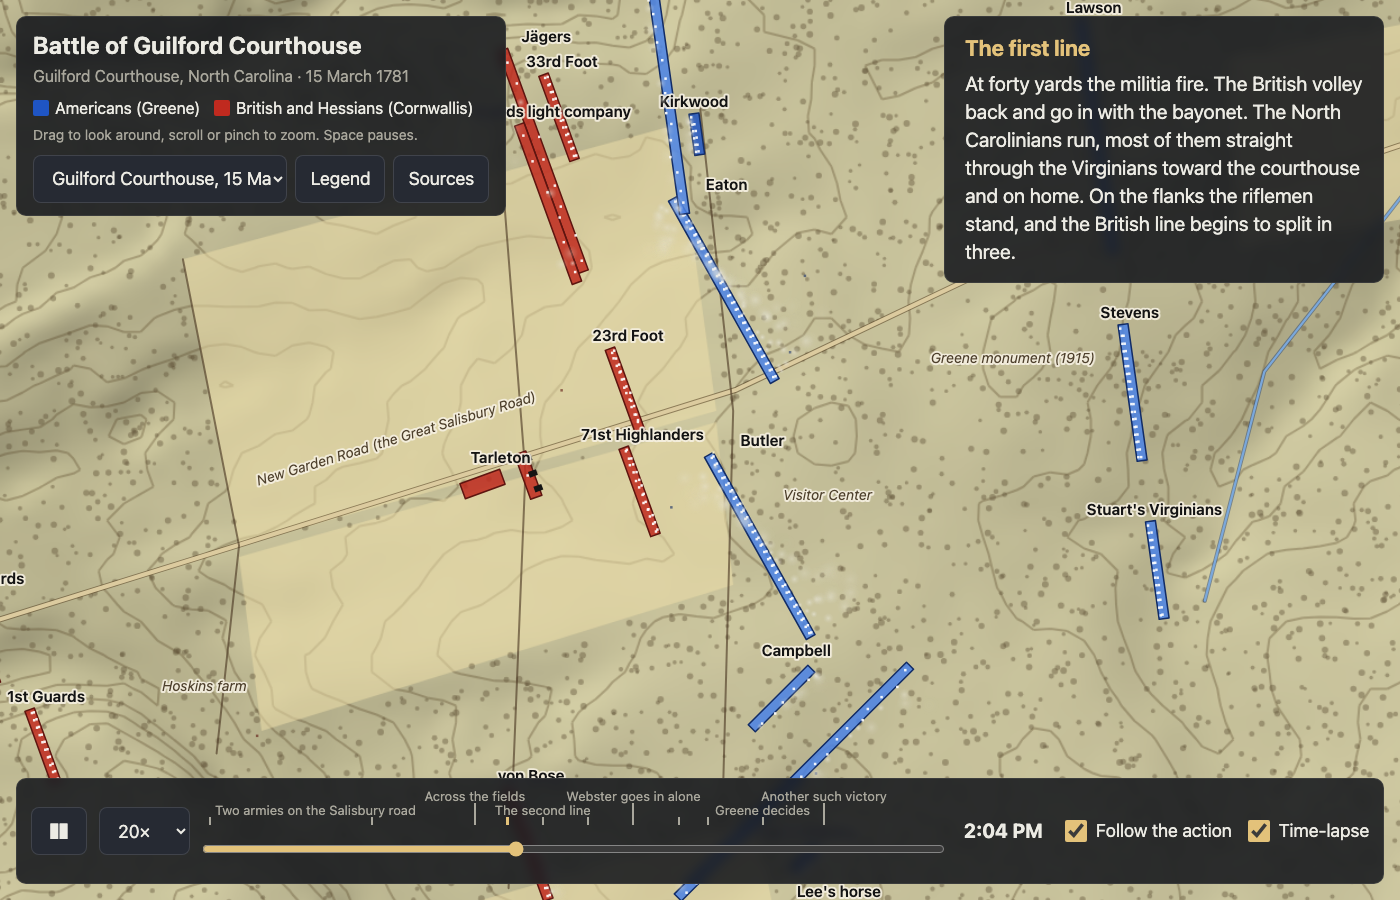
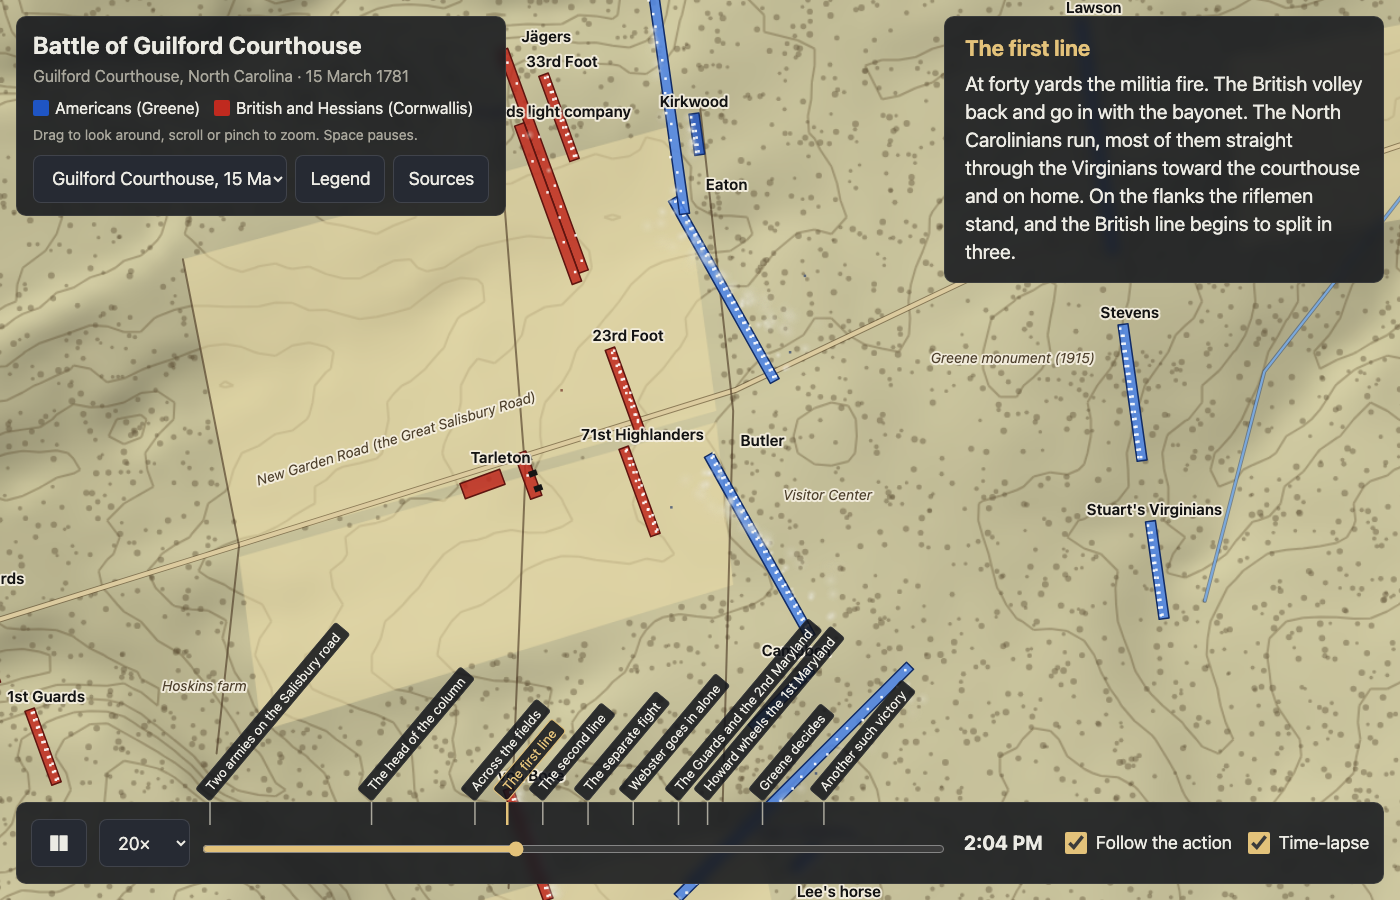
Chapter labels slant up over the map on leader lines
Every chapter is labelled now: the titles rise from the top edge of
the bar at 50 degrees, each joined to its tick by a leader, and crowded
neighbours are spread sideways with the leader still pointing at the
true time. Only when a window is too narrow for all of them is every
second one dropped.

Claude-Session: https://claude.ai/code/session_01US5GXUxojnCZWhZHcue3aU

diff --git a/app.js b/app.js
@@ -375,33 +375,34 @@ function drawNight() {
 
 // ---------- chapter marks and legend ----------
 
-// One tick per chapter above the scrubber, labelled where there is room; click to jump there.
-let marks = [];
+// One tick per chapter above the scrubber. Each label slants up over the map from the top edge of the bar,
+// joined to its tick by a leader line, so neighbours can be spread sideways without losing their place in time.
+let marks = [], leads = [];
 function buildMarks(b) {
-  ui.marks.innerHTML = '';
-  marks = b.events.map(ev => {
+  const svg = document.createElementNS('http://www.w3.org/2000/svg', 'svg');
+  ui.marks.replaceChildren(svg);
+  leads = []; marks = b.events.map(ev => {
     const el = document.createElement('button');
     el.textContent = ev.title; el.title = `${ev.title} · ${fmtTime(ev.t)}`;
     el.onclick = () => { follow = true; ui.follow.checked = true; seek(ev.t); };
     ui.marks.append(el);
+    leads.push(svg.appendChild(document.createElementNS('http://www.w3.org/2000/svg', 'path')));
     return el;
   });
   layoutMarks();
 }
-// Labels go on the lower row, then the upper row, else become a bare tick. An upper label's tick runs down
-// through the lower row, so neither row may put text across the other's tick.
 function layoutMarks() {
-  const tw = ui.marks.clientWidth, dur = B.endT - B.startT, right = [-Infinity, -Infinity], lows = [], ups = [];
-  marks.forEach((el, i) => {
-    const px = ((B.events[i].t - B.startT) / dur) * tw;
-    el.classList.remove('tick', 'up');
-    const w = el.offsetWidth, L = Math.max(0, Math.min(tw - w, px - w / 2)), R = L + w;
-    let row = -1;
-    if (w < tw && L >= right[0] + 6 && !ups.some(x => x > L - 3 && x < R + 3)) { row = 0; lows.push([L, R]); }
-    else if (w < tw && L >= right[1] + 6 && !lows.some(([a, b]) => px > a - 3 && px < b + 3)) { row = 1; ups.push(px); }
-    if (row < 0) el.classList.add('tick'); else { right[row] = R; if (row) el.classList.add('up'); }
-    const left = row < 0 ? px - 7 : L;
-    el.style.left = `${left}px`; el.style.setProperty('--tick', `${px - left}px`);
+  const tw = ui.marks.clientWidth, dur = B.endT - B.startT, gap = 27; // a 20 px pill at 50° clears its neighbour at 27 px (27·sin 50° > 20)
+  const px = B.events.map(ev => ((ev.t - B.startT) / dur) * tw);
+  const k = Math.max(1, Math.ceil((marks.length * gap) / Math.max(1, tw))); // too many for the width: label every k-th
+  const idx = [...marks.keys()].filter(i => i % k === 0), ax = idx.map(i => px[i]);
+  for (let j = 1; j < ax.length; j++) ax[j] = Math.max(ax[j], ax[j - 1] + gap); // push crowded labels right…
+  ax[ax.length - 1] = Math.min(ax[ax.length - 1], tw);
+  for (let j = ax.length - 2; j >= 0; j--) ax[j] = Math.min(ax[j], ax[j + 1] - gap); // …then back from the end
+  marks.forEach((el, i) => { el.hidden = true; leads[i].setAttribute('d', `M${px[i]} 23V15`); });
+  idx.forEach((i, j) => {
+    marks[i].hidden = false; marks[i].style.left = `${ax[j]}px`;
+    leads[i].setAttribute('d', `M${px[i]} 23V15L${ax[j]} 0`);
   });
 }
 
@@ -464,7 +465,7 @@ function updateHud() {
     ui.capTitle.textContent = curEvent?.title ?? '';
     ui.capText.textContent = curEvent?.text ?? '';
     ui.caption.classList.toggle('show', !!curEvent);
-    marks.forEach((m, i) => m.classList.toggle('on', B.events[i] === curEvent));
+    marks.forEach((m, i) => { m.classList.toggle('on', B.events[i] === curEvent); leads[i].classList.toggle('on', B.events[i] === curEvent); });
   }
   let best = null, bd = 28;
   if (mouse) for (const u of B.units) {

diff --git a/index.html b/index.html
@@ -32,15 +32,14 @@
   #cap-text { font-size: 20px; margin-top: 6px; }
   #bar { left: 16px; right: 16px; bottom: 16px; padding: 10px 14px; display: flex; align-items: center; gap: 12px; }
   #play { width: 56px; min-width: 56px; font-size: 22px; }
-  #track { flex: 1; min-width: 80px; position: relative; padding-top: 36px; }
+  #track { flex: 1; min-width: 80px; position: relative; padding-top: 12px; }
   #scrub { display: block; width: 100%; accent-color: var(--accent); height: 48px; margin: 0; }
-  #marks { position: absolute; left: 8px; right: 8px; top: 0; height: 36px; }
-  #marks button { position: absolute; top: 0; z-index: 1; height: 36px; min-height: 0; padding: 14px 5px 8px; border: 0; border-radius: 4px; background: none; color: var(--muted); font-size: 13px; line-height: 14px; white-space: nowrap; }
-  #marks button::after { content: ''; position: absolute; left: var(--tick); bottom: 0; width: 2px; height: 8px; margin-left: -1px; background: currentColor; }
-  #marks button.up { padding: 0 5px 22px; } #marks button.up::after { height: 22px; }
-  #marks button.tick { z-index: 0; width: 14px; font-size: 0; }
-  #marks button.tick:hover { z-index: 2; width: auto; font-size: 13px; background: var(--panel); }
-  #marks button:hover, #marks button.on { color: var(--accent); } #marks button.on::after { width: 3px; }
+  /* Chapter marks: ticks inside the bar, leaders up to its top edge (23 px: marks + padding + border), labels slanting over the map. */
+  #marks { position: absolute; left: 8px; right: 8px; bottom: 48px; height: 12px; }
+  #marks svg { position: absolute; left: 0; bottom: 0; width: 100%; height: 23px; overflow: visible; pointer-events: none; }
+  #marks path { fill: none; stroke: var(--muted); stroke-width: 1.5; } #marks path.on { stroke: var(--accent); stroke-width: 2.5; }
+  #marks button { position: absolute; bottom: 23px; min-height: 0; height: 20px; padding: 0 8px; border: 1px solid rgba(255,255,255,0.08); border-radius: 4px; background: var(--panel); color: var(--ink); font-size: 13px; line-height: 18px; white-space: nowrap; transform-origin: 0 100%; transform: rotate(-50deg); }
+  #marks button:hover, #marks button.on { color: var(--accent); } #marks button.on { border-color: var(--accent); }
   #clock { font-variant-numeric: tabular-nums; min-width: 92px; text-align: center; font-weight: 700; font-size: 20px; white-space: nowrap; }
   #bar label { display: inline-flex; align-items: center; gap: 6px; white-space: nowrap; }
   #bar input[type=checkbox] { width: 22px; height: 22px; accent-color: var(--accent); }

diff --git a/README.md b/README.md
@@ -29,8 +29,8 @@ logic. `#cowpens@07:45` opens a battle at a time of day (`#yorktown@1781-10-14T2
 `#cowpens@07:45,play` starts it playing. `,warp` pre-runs five seconds of frames, which is how headless
 screenshots see smoke and the camera; `,legend` opens the legend.
 
-The chapters sit above the scrubber as ticks: click one to jump there (the camera follows again).
-Labels are shown where they fit, on two rows; a bare tick names itself on hover. **Legend** in the
+The chapters sit above the scrubber as ticks, their titles slanting up over the map on leader lines
+so crowded chapters can be spread apart: click one to jump there (the camera follows again). **Legend** in the
 top panel lists only the symbols the current battle uses. Every unit carries its name when there is
 room; labels that would overlap are dropped, biggest unit first.
 
